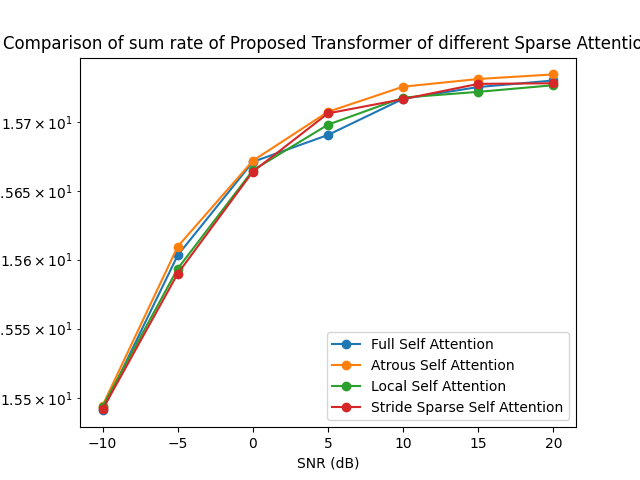
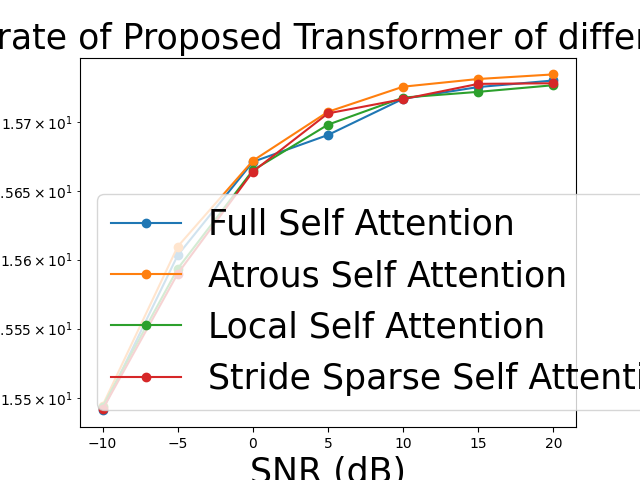
message

diff --git a/SPR-CNN/result-modality-transformer.py b/SPR-CNN/result-modality-transformer.py
@@ -1,6 +1,8 @@
 import matplotlib.pyplot as plt
 import math
 
+fontsize = 25
+
 # data
 x = [-10, -5, 0, 5, 10, 15, 20]
 # CNN, epochs = 200, lr = 0.0001, batch_size = 32
@@ -26,12 +28,12 @@ plt.plot(x, y2, marker='o', label='Transformers')
 plt.plot(x, y3, marker='o', label='Proposed Transformer')
 
 # add title and axis labels
-plt.title('Comparison of NMSE of CNN and Transformers and Proposed Transformer')
-plt.xlabel('SNR (dB)')
-plt.ylabel('NMSE (log scale)')
+plt.title('Comparison of NMSE of CNN and Transformers and Proposed Transformer', fontsize=fontsize)
+plt.xlabel('SNR (dB)', fontsize=fontsize)
+plt.ylabel('NMSE (log scale)', fontsize=fontsize)
 
 # add legend
-plt.legend()
+plt.legend(fontsize=fontsize)
 
 # save the plot
 plt.savefig('Comparison of NMSE of CNN and Transformers and Proposed Transformer')
@@ -65,12 +67,12 @@ plt.plot(x, y2, marker='o', label='Transformers')
 plt.plot(x, y3, marker='o', label='Proposed Transformer')
 
 # add title and axis labels
-plt.title('Comparison of sum rate of CNN and Transformers and Proposed Transformer')
-plt.xlabel('SNR (dB)')
-plt.ylabel('sum rate(bandwith = 10) (log scale)')
+plt.title('Comparison of sum rate of CNN and Transformers and Proposed Transformer', fontsize=fontsize)
+plt.xlabel('SNR (dB)', fontsize=fontsize)
+plt.ylabel('sum rate(bandwith = 10) (log scale)', fontsize=fontsize)
 
 # add legend
-plt.legend()
+plt.legend(fontsize=fontsize)
 
 # save the plot
 plt.savefig('Comparison of sum rate of CNN and Transformers and Proposed Transformer')
@@ -101,12 +103,12 @@ plt.plot(x, y2, marker='o', label='Proposed Transformer')
 plt.yscale('log', base=2)
 
 # add title and axis labels
-plt.title('Comparison of NMSE of Transformers and Proposed Transformer')
-plt.xlabel('SNR (dB)')
-plt.ylabel('NMSE (log scale)')
+plt.title('Comparison of NMSE of Transformers and Proposed Transformer', fontsize=fontsize)
+plt.xlabel('SNR (dB)', fontsize=fontsize)
+plt.ylabel('NMSE (log scale)', fontsize=fontsize)
 
 # add legend
-plt.legend()
+plt.legend(fontsize=fontsize)
 
 # save the plot
 plt.savefig('Comparison of NMSE of Transformers and Proposed Transformer')
@@ -137,12 +139,12 @@ plt.plot(x, y2, marker='o', label='Proposed Transformer')
 plt.yscale('log', base=2)
 
 # add title and axis labels
-plt.title('Comparison of sum rate of Transformers and Proposed Transformer')
-plt.xlabel('SNR (dB)')
-plt.ylabel('sum rate(bandwith = 10) (log scale)')
+plt.title('Comparison of sum rate of Transformers and Proposed Transformer', fontsize=fontsize)
+plt.xlabel('SNR (dB)', fontsize=fontsize)
+plt.ylabel('sum rate(bandwith = 10) (log scale)', fontsize=fontsize)
 
 # add legend
-plt.legend()
+plt.legend(fontsize=fontsize)
 
 # save the plot
 plt.savefig('Comparison of sum rate of Transformers and Proposed Transformer')
@@ -158,10 +160,12 @@ labels = ['Full Self Attention', 'Atrous Self Attention', 'Local Self Attention'
 # 创建条形图
 plt.bar(labels, values)
 
+plt.xticks(fontsize=20)  # 调整x轴标签字体大小
+
 # 添加标题和标签
-plt.title('Comparison of calculation loading ratio of different Sparse Attention and Full Self Attention')
-plt.xlabel('Categories')
-plt.ylabel('Proportion')
+plt.title('Comparison of calculation loading ratio of different Sparse Attention and Full Self Attention', fontsize=fontsize)
+plt.xlabel('Categories', fontsize=fontsize)
+plt.ylabel('Proportion', fontsize=fontsize)
 
 # save the plot
 plt.savefig('Comparison of calculation loading ratio of different Sparse Attention and Full Self Attention')
@@ -207,12 +211,12 @@ plt.plot(x, y4, marker='o', label='Stride Sparse Self Attention')
 plt.yscale('log')
 
 # add title and axis labels
-plt.title('Comparison of NMSE of Proposed Transformer of different Sparse Attention')
-plt.xlabel('SNR (dB)')
-plt.ylabel('sum rate(bandwith = 10) (log scale)')
+plt.title('Comparison of NMSE of Proposed Transformer of different Sparse Attention', fontsize=fontsize)
+plt.xlabel('SNR (dB)', fontsize=fontsize)
+plt.ylabel('NMSE (log scale)', fontsize=fontsize)
 
 # add legend
-plt.legend()
+plt.legend(fontsize=fontsize)
 
 # save the plot
 plt.savefig('Comparison of NMSE of Proposed Transformer of different Sparse Attention')
@@ -259,12 +263,12 @@ plt.plot(x, y4, marker='o', label='Stride Sparse Self Attention')
 plt.yscale('log')
 
 # add title and axis labels
-plt.title('Comparison of sum rate of Proposed Transformer of different Sparse Attention')
-plt.xlabel('SNR (dB)')
-plt.ylabel('sum rate(bandwith = 10) (log scale)')
+plt.title('Comparison of sum rate of Proposed Transformer of different Sparse Attention', fontsize=fontsize)
+plt.xlabel('SNR (dB)', fontsize=fontsize)
+plt.ylabel('sum rate(bandwith = 10) (log scale)', fontsize=fontsize)
 
 # add legend
-plt.legend()
+plt.legend(fontsize=fontsize)
 
 # save the plot
 plt.savefig('Comparison of sum rate of Proposed Transformer of different Sparse Attention')
